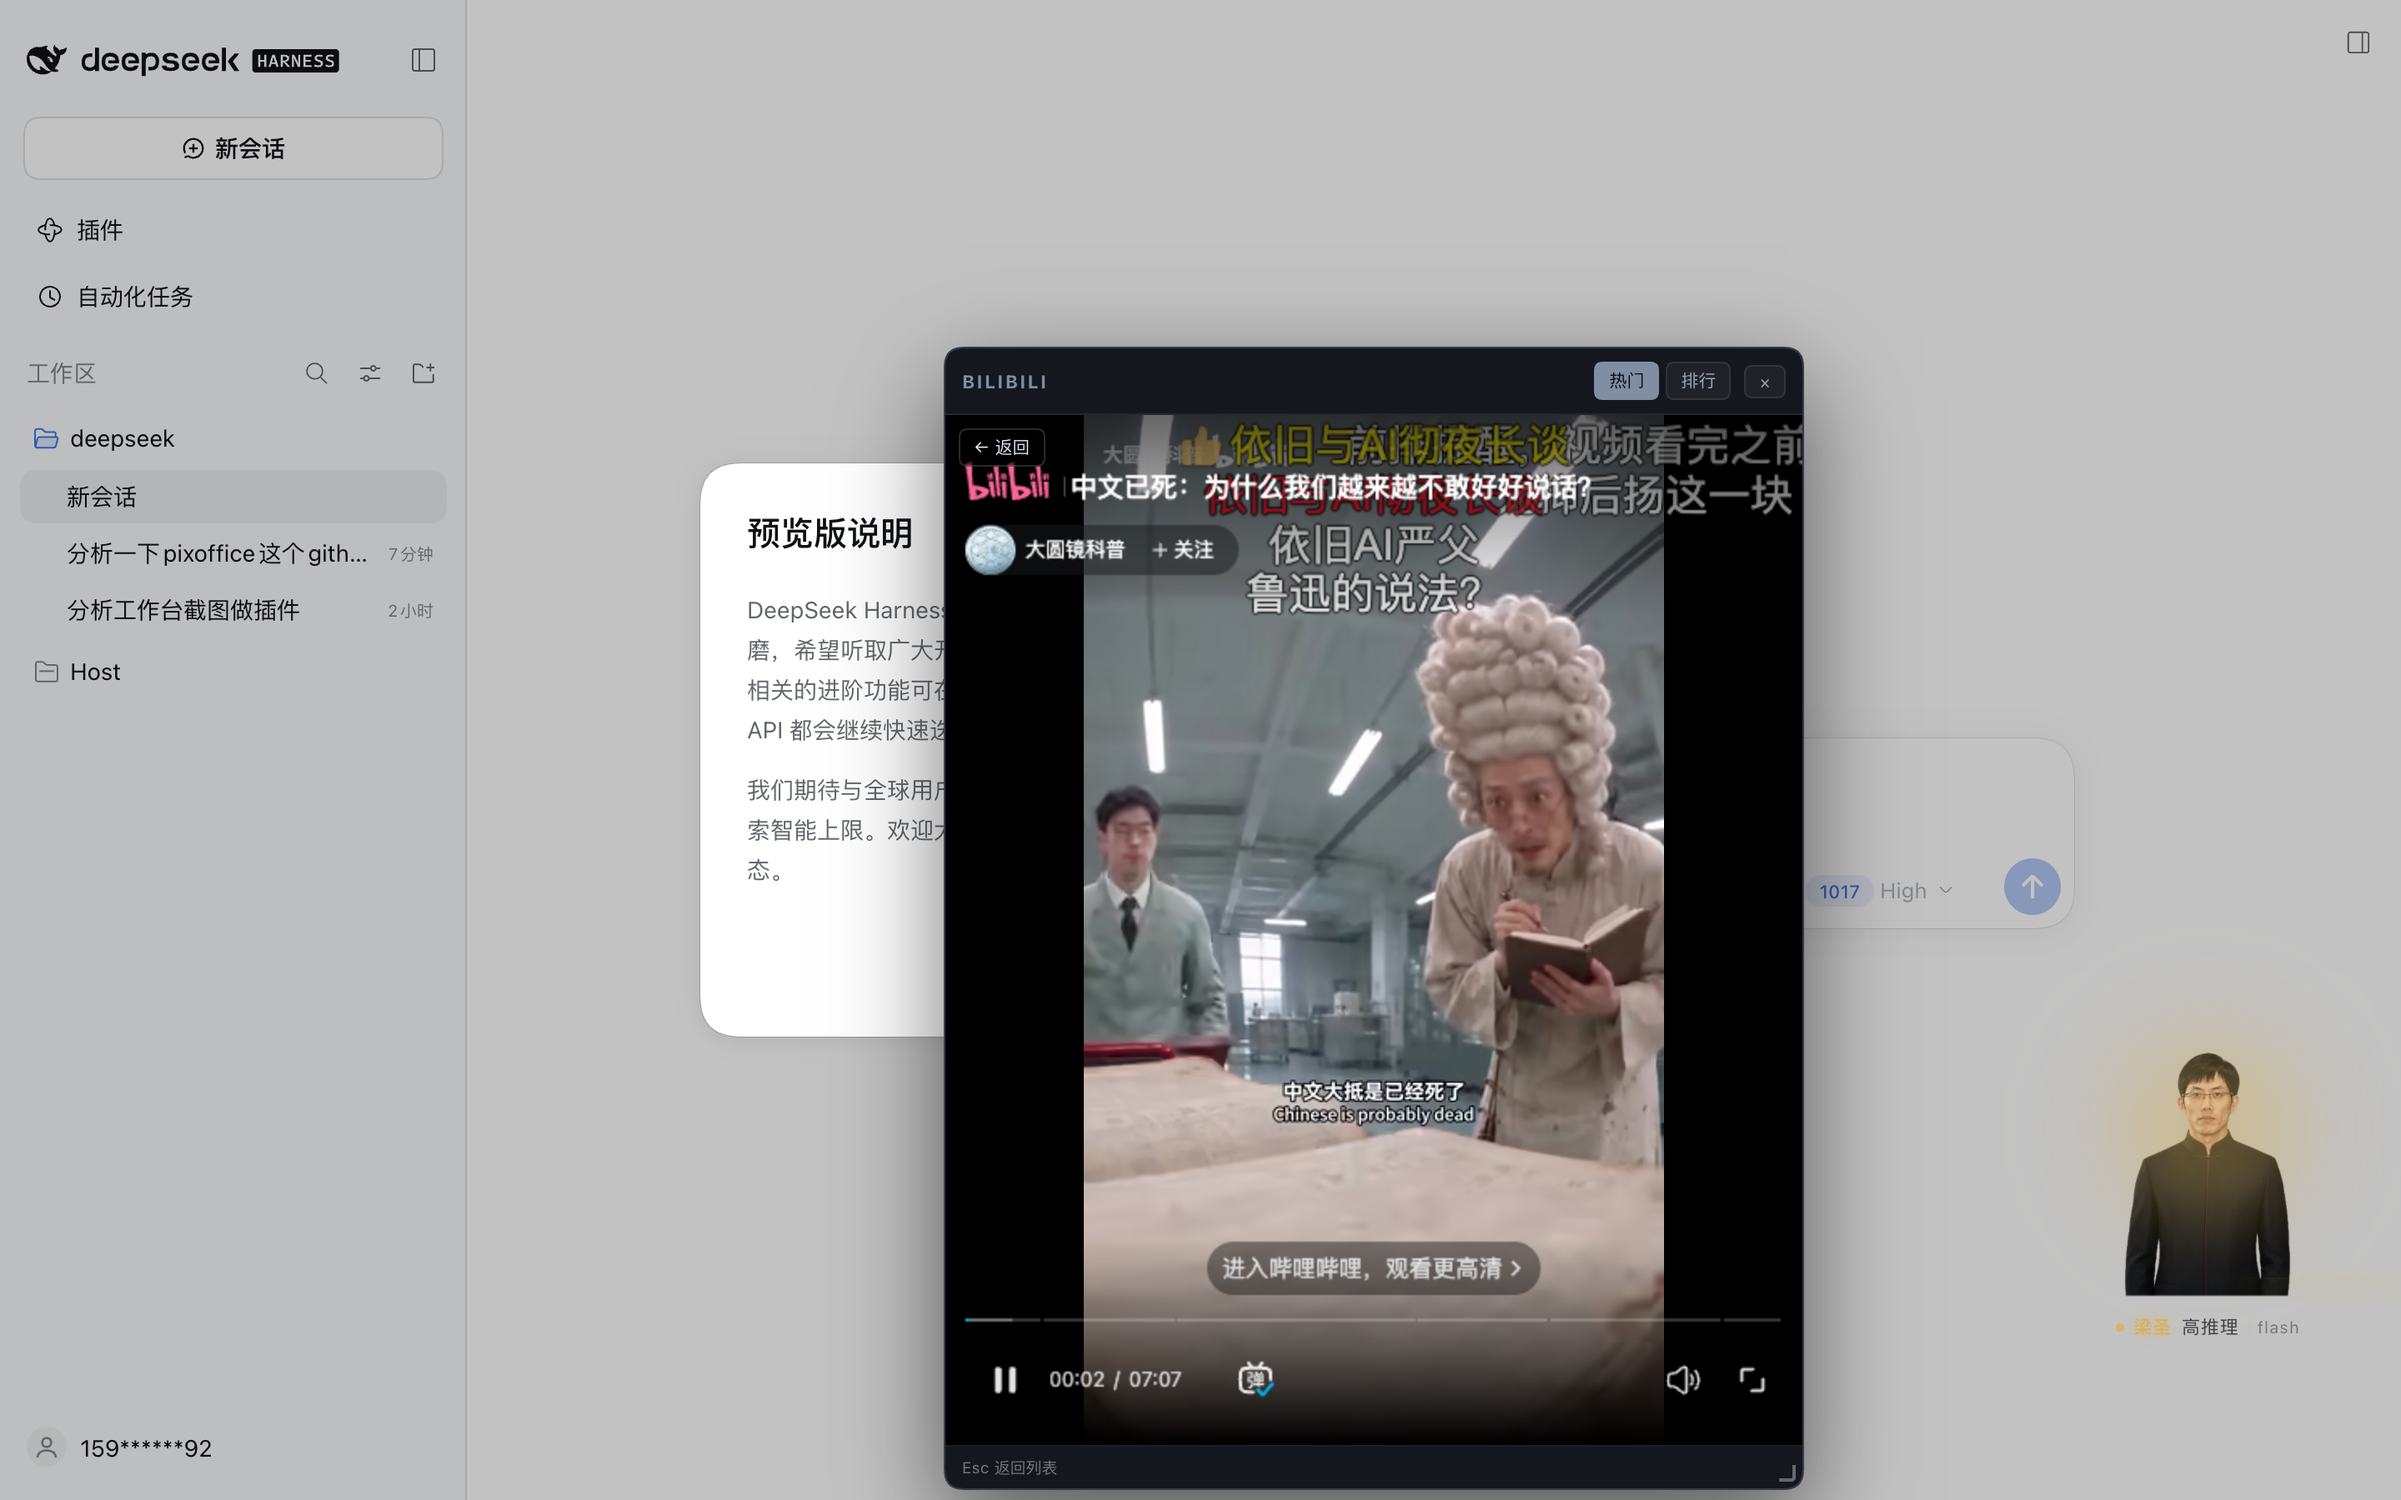
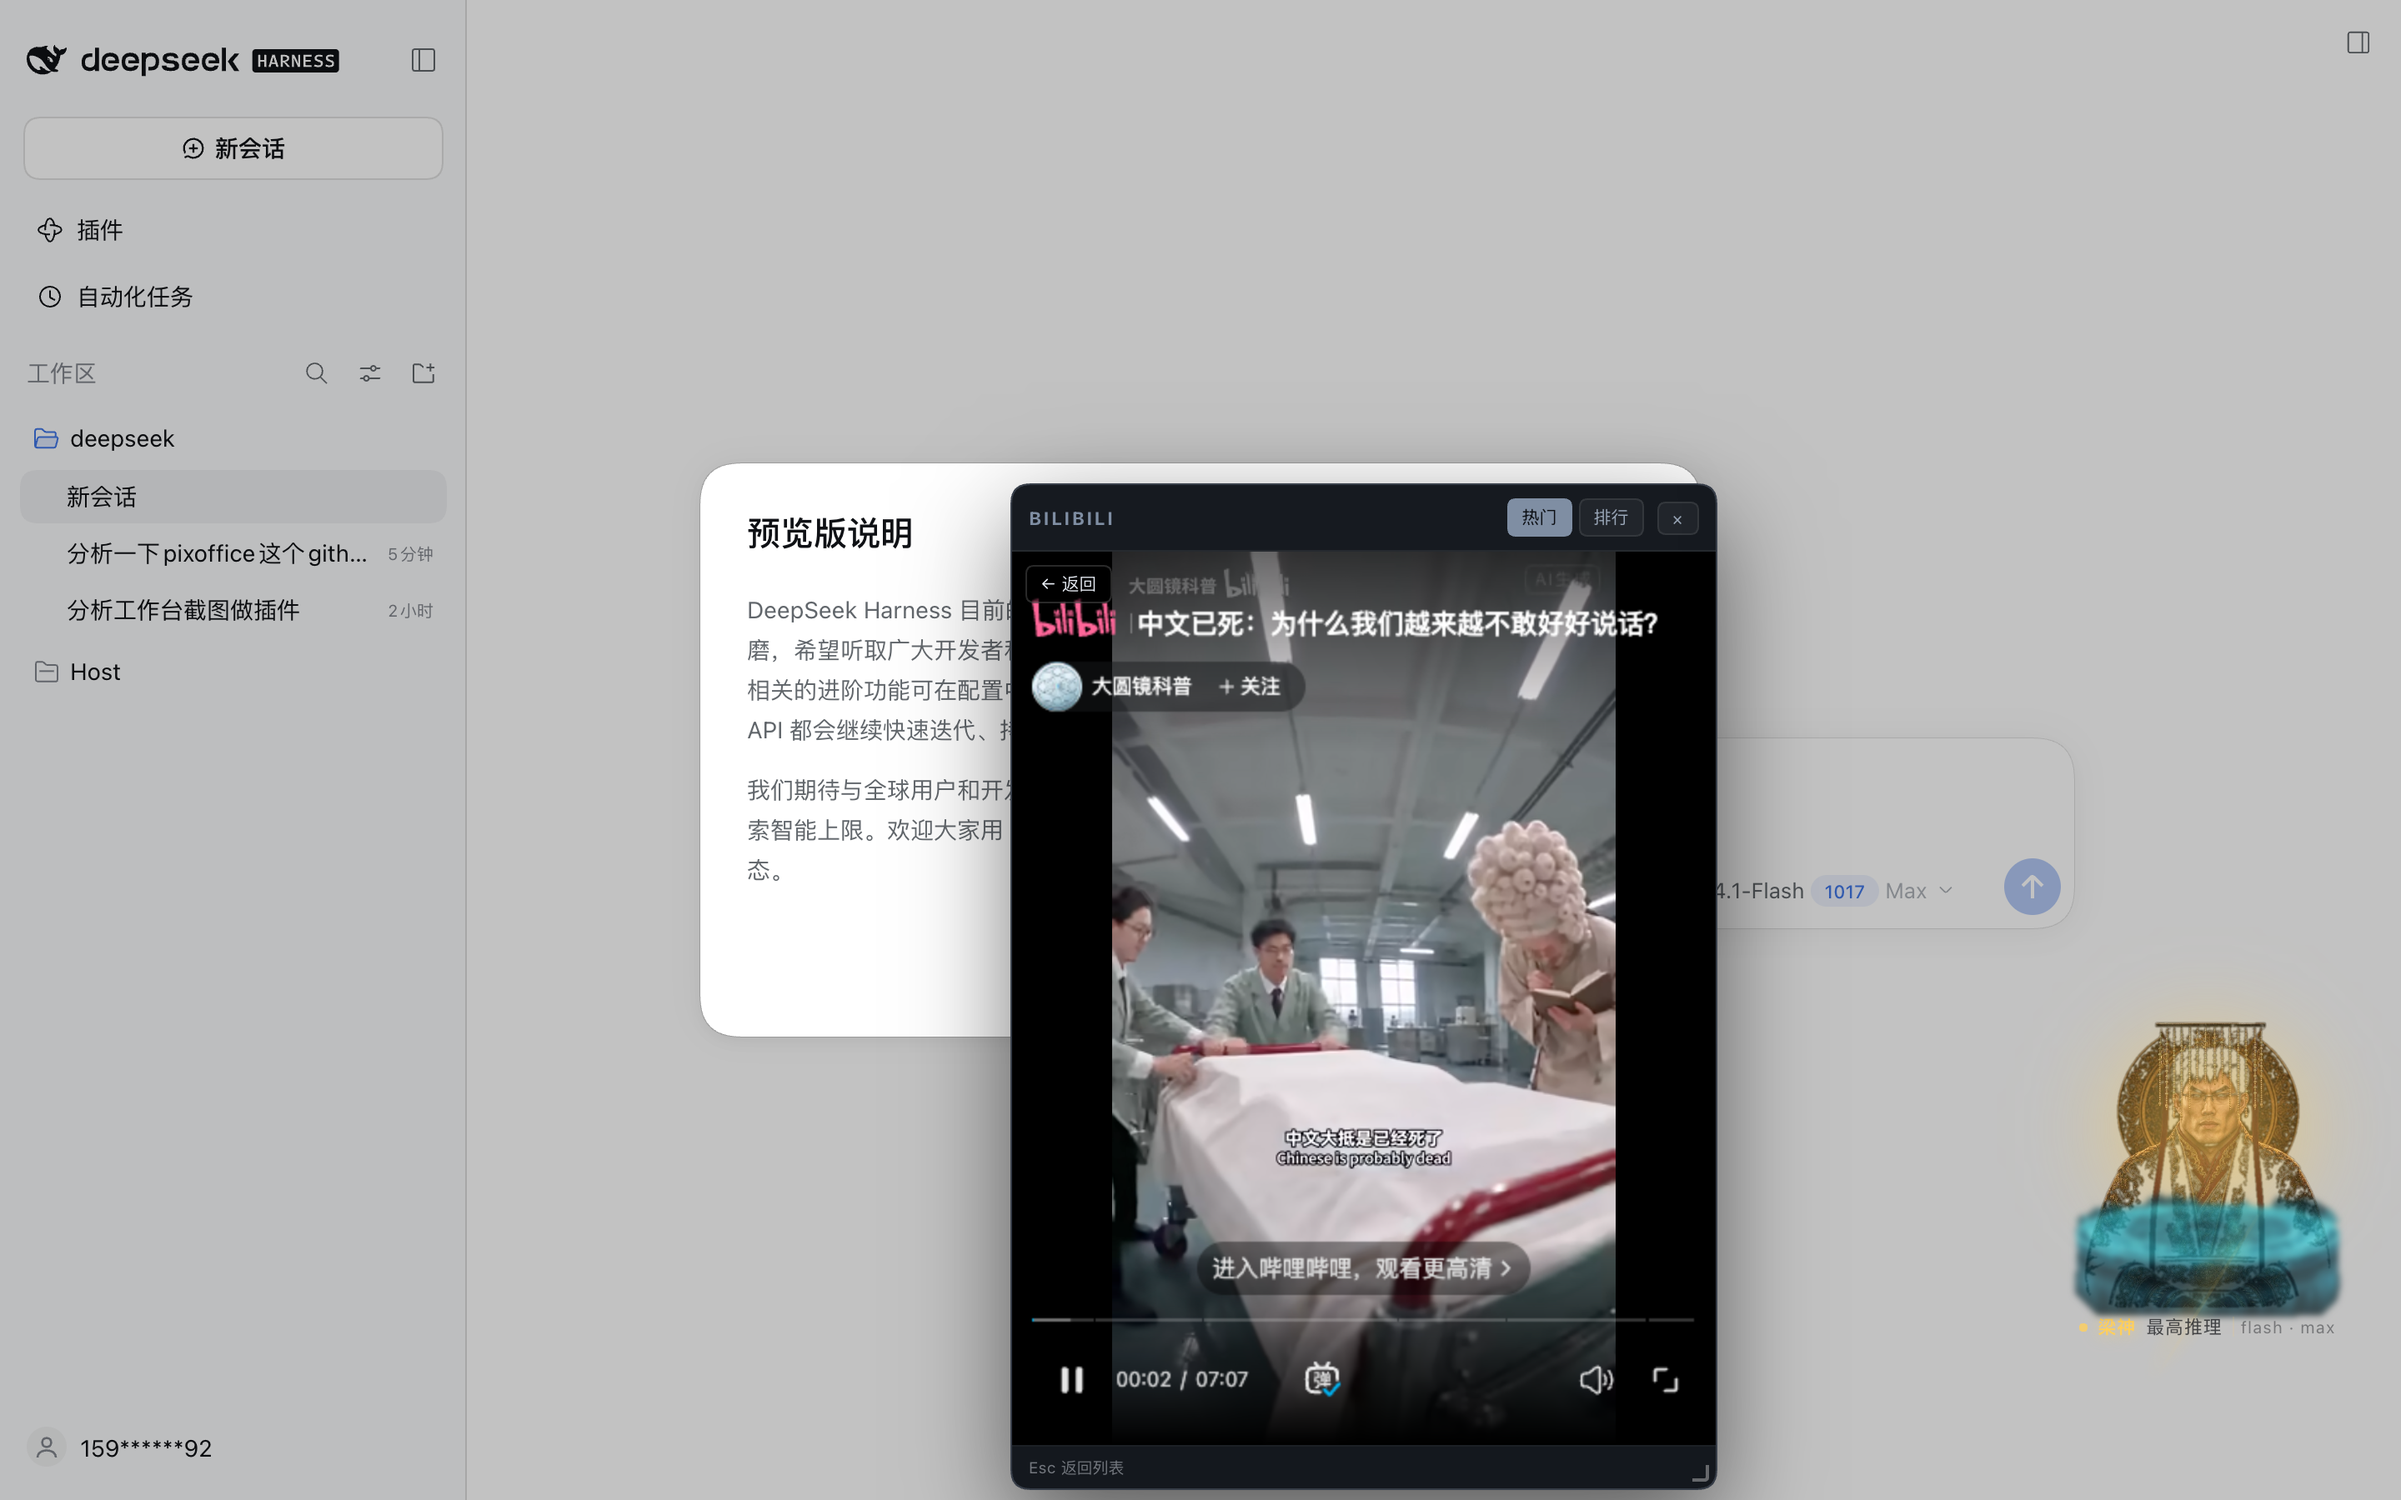
feat: 梁神换回 dsh-liang-skin 原图 + 全息基座场景 + 重做动效
- 梁神四档改用 liang-intensity-calibrator 原图（level-01/10/16/stage-30），GrabCut 透明底 + color-bleed
- MOSS 两态与全息基座用 qwen-image-3.0 新生成，GrabCut 透明底
- 动效重做：底部全息基座 + 旋转光环 + 立绘呼吸 + 执行态脉冲加速 + 换形扫描线/闪光
- 真机验证：Low→Max 档位切换桌宠从梁子→梁神；B 站窗口拖动/缩放/播放全部通过

Changed region(s): [[0.375, 0.2178, 0.7812, 1.0], [0.8438, 0.6533, 1.0, 0.9022]]

diff --git a/client/client.js b/client/client.js
@@ -37,7 +37,7 @@ window.__ModuleLoader__.load({
     var ROOT_ID = 'dsh-pet-liang-root'
     var POS_KEY = 'dsh-pet-liang:pos'
     /* 素材改了名字没变，加一个版本号强制浏览器重新取（宿主给的是 immutable 缓存） */
-    var ASSET_V = '8'
+    var ASSET_V = '10'
     var STYLE_ID = 'dsh-pet-liang-style'
 
     /** 四档推理等级对应的称呼与氛围色。 */
@@ -233,17 +233,22 @@ window.__ModuleLoader__.load({
                   '#' + ROOT_ID + '[data-working="1"] .dpl-figure{animation:dpl-breathe 1.9s ease-in-out infinite;}',
             /* 梁神：透明底立绘，直接浮着（不画圆框、不加背景） */
       '#' + ROOT_ID + '[data-character="liang"] .dpl-figure{width:auto;max-width:176px;max-height:176px;}',
-      '#' + ROOT_ID + ' .dpl-ring{position:absolute;left:50%;bottom:0;width:158px;height:30px;transform:translateX(-50%);',
-      'pointer-events:none;border-radius:50%;opacity:.18;',
-      'background:radial-gradient(ellipse at center,color-mix(in srgb,var(--dpl-aura) 55%,transparent) 0%,transparent 72%);',
-      'animation:dpl-breathe 4.2s ease-in-out infinite;}',
-      '#' + ROOT_ID + '[data-working="1"] .dpl-ring{opacity:.95;animation:dpl-pulse 1.7s ease-in-out infinite;}',
-      '#' + ROOT_ID + ' .dpl-ring::after{content:"";position:absolute;left:8%;right:8%;top:38%;height:1px;border-radius:1px;',
-      'background:linear-gradient(90deg,transparent,var(--dpl-aura),transparent);opacity:.65;}',
+      '#' + ROOT_ID + ' .dpl-pedestal{position:absolute;left:50%;bottom:-6px;width:168px;transform:translateX(-50%);',
+      'pointer-events:none;opacity:.55;animation:dpl-ped-glow 5.4s ease-in-out infinite;}',
+      'body[data-ds-dark-theme] #' + ROOT_ID + ' .dpl-pedestal{opacity:.82;}',
+      '#' + ROOT_ID + ' .dpl-ring{position:absolute;left:50%;bottom:0;width:150px;height:28px;transform:translateX(-50%);',
+      'pointer-events:none;border-radius:50%;opacity:.24;',
+      'background:radial-gradient(ellipse at center,color-mix(in srgb,var(--dpl-aura) 68%,transparent) 0%,transparent 72%);',
+      'animation:dpl-ring-spin 5.5s linear infinite;}',
+      '#' + ROOT_ID + '[data-working="1"] .dpl-ring{opacity:.82;animation:dpl-ring-spin 1.8s linear infinite;}',
+      'body[data-ds-dark-theme] #' + ROOT_ID + ' .dpl-ring{opacity:.5;}',
+      'body[data-ds-dark-theme] #' + ROOT_ID + '[data-working="1"] .dpl-ring{opacity:.9;}',
+      '#' + ROOT_ID + ' .dpl-ring::after{content:"";position:absolute;left:4%;right:4%;top:36%;height:1.5px;border-radius:2px;',
+      'background:linear-gradient(90deg,transparent,var(--dpl-aura),transparent);opacity:.7;}',
       '#' + ROOT_ID + ' .dpl-scan{position:absolute;left:50%;bottom:-8px;width:168px;height:186px;transform:translateX(-50%);',
       'overflow:hidden;pointer-events:none;opacity:0;border-radius:50%;}',
       '#' + ROOT_ID + ' .dpl-scan::after{content:"";position:absolute;left:0;width:100%;height:16px;filter:blur(4px);',
-      'background:linear-gradient(to bottom,transparent,var(--dpl-aura),transparent);opacity:.42;',
+      'background:linear-gradient(to bottom,transparent,var(--dpl-aura),transparent);opacity:.62;',
       '-webkit-mask-image:linear-gradient(to right,transparent,#000 22%,#000 78%,transparent);',
       'mask-image:linear-gradient(to right,transparent,#000 22%,#000 78%,transparent);}',
       '#' + ROOT_ID + '.is-switching .dpl-scan{opacity:1;}',
@@ -261,6 +266,8 @@ window.__ModuleLoader__.load({
       '#' + ROOT_ID + '[data-working="1"] .dpl-dot{animation:dpl-blink 1.1s ease-in-out infinite;}',
       '@keyframes dpl-breathe{0%,100%{transform:translateY(0)}50%{transform:translateY(-6px)}}',
       '@keyframes dpl-pulse{0%,100%{opacity:.5;filter:blur(0)}50%{opacity:1;filter:blur(1px)}}',
+      '@keyframes dpl-ring-spin{0%{transform:translateX(-50%) rotate(0deg) scaleX(1)}50%{transform:translateX(-50%) rotate(180deg) scaleX(.84)}100%{transform:translateX(-50%) rotate(360deg) scaleX(1)}}',
+      '@keyframes dpl-ped-glow{0%,100%{opacity:.45;filter:blur(0px)}50%{opacity:.75;filter:blur(2px)}}',
       '@keyframes dpl-spin{0%,100%{transform:translateX(-50%) scaleX(1) scaleY(1);opacity:.55}50%{transform:translateX(-50%) scaleX(1.06) scaleY(1.18);opacity:.95}}',
       '@keyframes dpl-blink{0%,100%{opacity:.25}50%{opacity:1}}',
       '@keyframes dpl-sweep{0%{top:-24px}100%{top:200px}}',
@@ -405,9 +412,14 @@ window.__ModuleLoader__.load({
       figure.draggable = false
       figure.setAttribute('data-asset', 'moss-idle.webp')
       figure.setAttribute('data-char', 'moss')
+      var pedestal = el('img', 'dpl-pedestal')
+      pedestal.src = assetUrl('holo-pedestal.webp')
+      pedestal.alt = ''
+      pedestal.draggable = false
       var ring = el('div', 'dpl-ring')
       var scan = el('div', 'dpl-scan')
       stage.appendChild(aura)
+      stage.appendChild(pedestal)
       stage.appendChild(ring)
       stage.appendChild(figure)
       stage.appendChild(scan)
